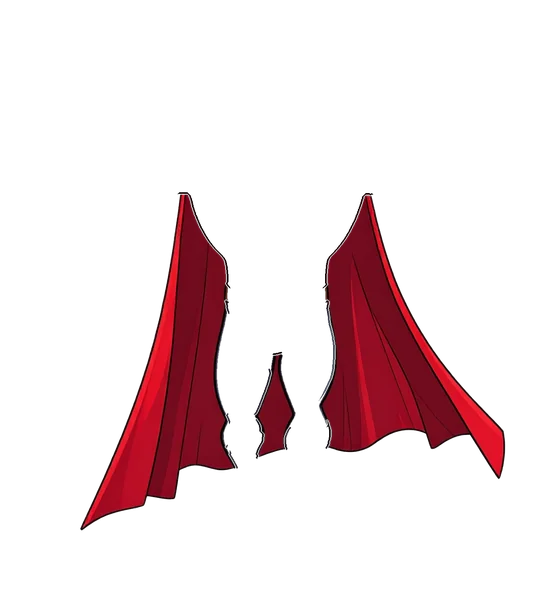
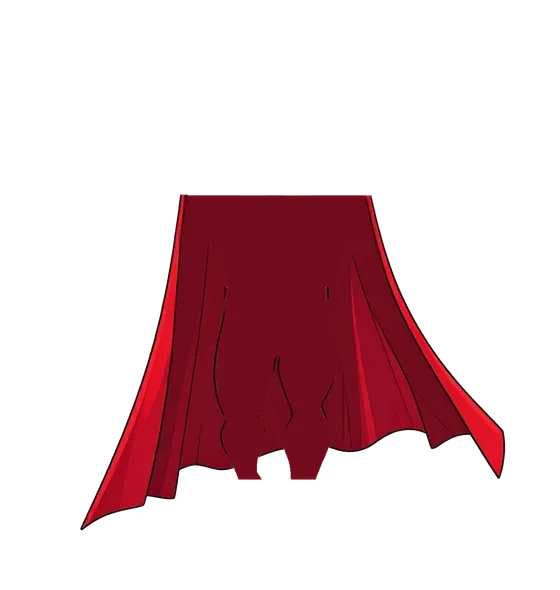
Keep the cape attached to the hero
The cape layer now continues behind the body, so a swinging cape never
opens a gap, and the body no longer carries the cape's faint edge lines.
Toned the cape swing down so it stays with him.

Claude-Session: https://claude.ai/code/session_01AFesTq58cik2Kzgpt88zTm

Changed region(s): [[0.3339, 0.3051, 0.6679, 0.8237]]

diff --git a/index.html b/index.html
@@ -238,14 +238,14 @@ button{cursor:pointer}
 .hero.hovering .wob{animation:breathe 2.4s ease-in-out infinite}
 @keyframes breathe{0%,100%{transform:scale(1,1)}50%{transform:scale(1.02,1.035)}}
 .hero.hovering .cape{animation:capeIdle 2.8s ease-in-out infinite}
-@keyframes capeIdle{0%,100%{transform:skewX(0deg) scale(1,1)}25%{transform:skewX(4deg) scale(1.04,1.02)}50%{transform:skewX(0deg) scale(1.08,.98)}75%{transform:skewX(-4deg) scale(1.04,1.02)}}
+@keyframes capeIdle{0%,100%{transform:skewX(0deg) scale(1,1)}25%{transform:skewX(2.5deg) scale(1.02,1.015)}50%{transform:skewX(0deg) scale(1.045,1)}75%{transform:skewX(-2.5deg) scale(1.02,1.015)}}
 .hero.hovering .kg{animation:glowk 2.4s ease-in-out infinite}
 .hero.hovering .eg{animation:glowk 3.2s ease-in-out infinite .7s}
 @keyframes glowk{0%,100%{opacity:.25}50%{opacity:1}}
 .hero.falling .wob,.hero.rising .wob{animation:wobble .34s ease-in-out infinite alternate}
 @keyframes wobble{from{transform:rotate(-5deg) scale(.95,1.08)}to{transform:rotate(5deg) scale(.95,1.08)}}
 .hero.falling .cape,.hero.rising .cape{animation:capeFlap .18s ease-in-out infinite alternate}
-@keyframes capeFlap{from{transform:skewX(-8deg) scale(.95,1.06)}to{transform:skewX(8deg) scale(1.06,1.14)}}
+@keyframes capeFlap{from{transform:skewX(-4.5deg) scale(.98,1.04)}to{transform:skewX(4.5deg) scale(1.04,1.09)}}
 .hero.falling .kg,.hero.rising .kg,.hero.falling .eg,.hero.rising .eg{opacity:.95}
 /* speed lines trail behind the hero while he dives or climbs */
 .hero .trail{position:absolute;left:8%;right:8%;height:150%;opacity:0;transition:opacity .15s}
